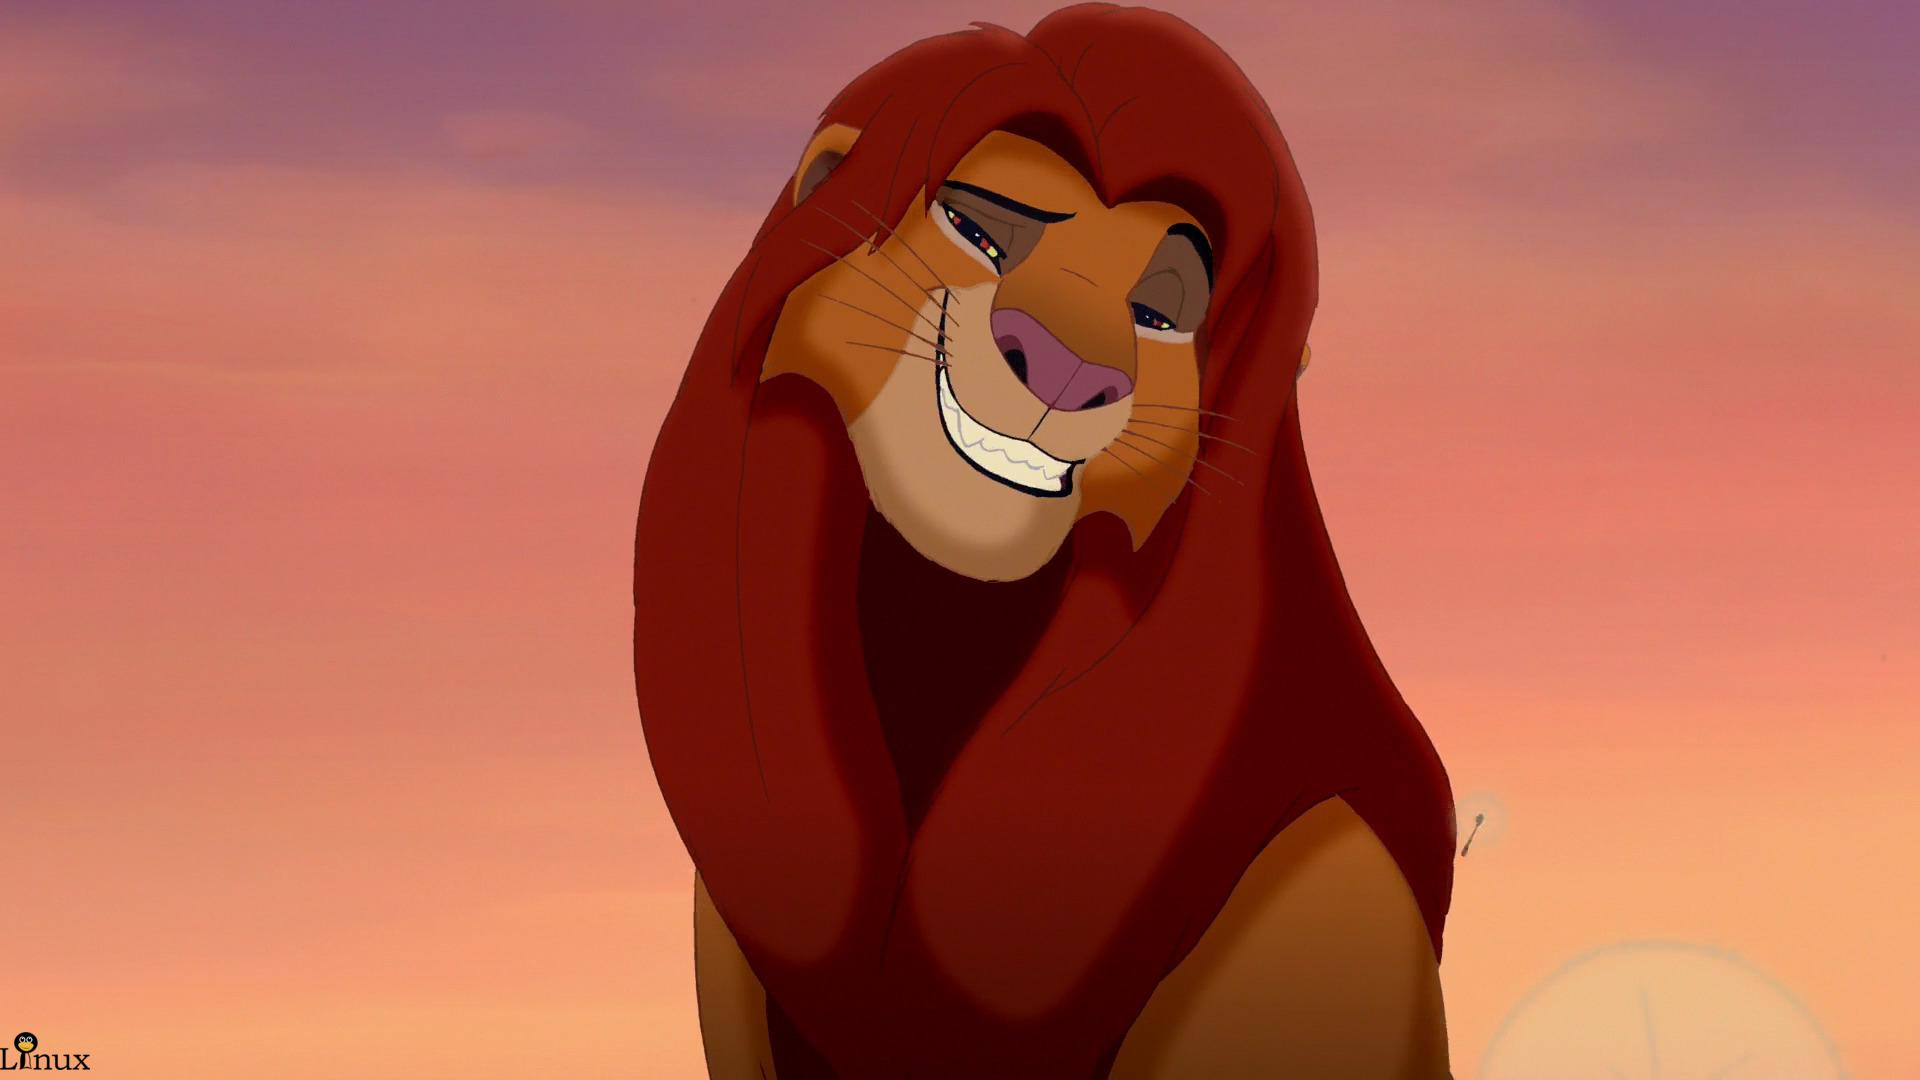
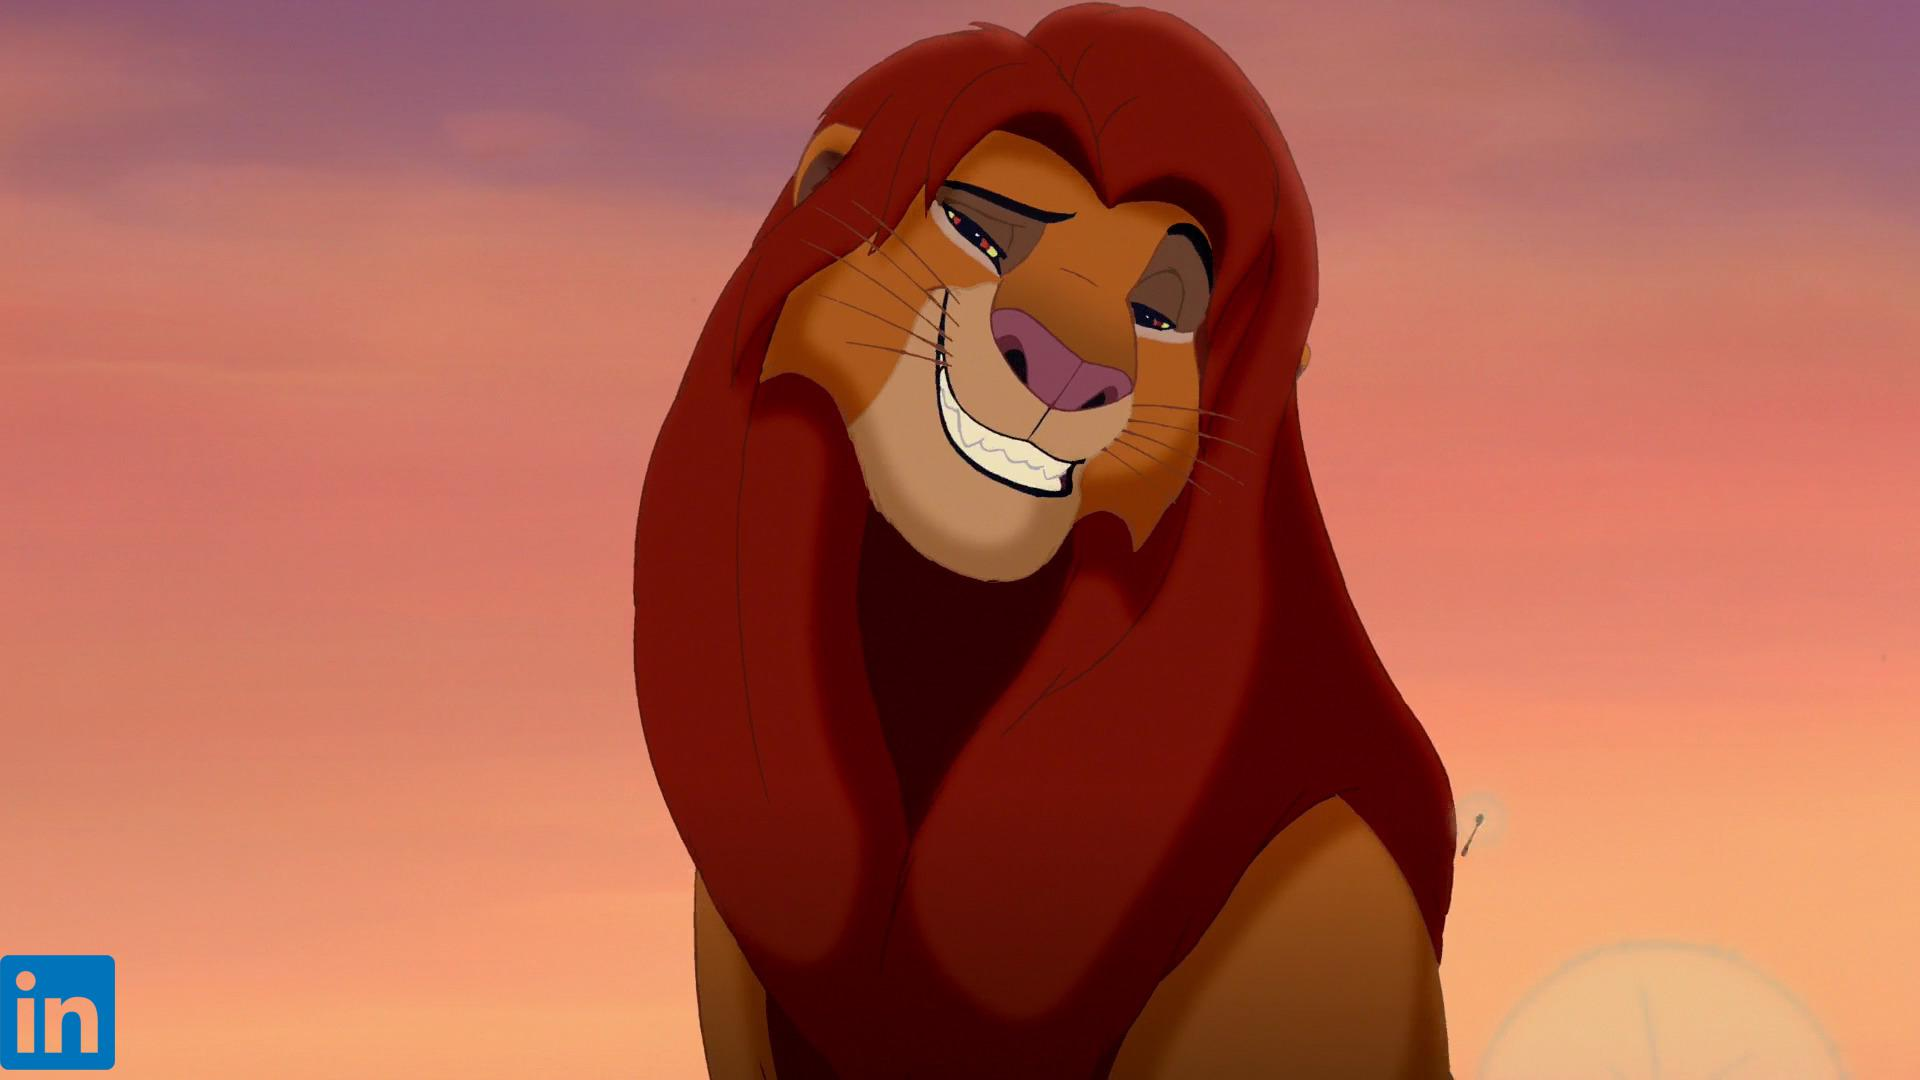
fix me

Changed region(s): [[0.0, 0.8861, 0.0625, 1.0]]

diff --git a/camera.php b/camera.php
@@ -30,7 +30,7 @@ require("includes/upload.php");
     </select>
 
     <form method = "POST" >
-    <select id="stickers">
+    <select name="stickers" id="stickers">
     <option value="none">Default</option>
     <option value="./stickers/sticker1.png">Greentoon</option>
     <option value="./stickers/sticker2.png">Linkedin</option>
@@ -62,23 +62,27 @@ if (isset($_POST['apply']))
   //echo "<img src =$target>";
   //die();
   $stamp = imagecreatefrompng($selected);
-  $im = imagecreatefromjpeg($target);
-  if(imagesx($im)<200 || imagesy($im) <200)
-  {
-	  echo "image size too low";
-	  exit;
-  }
+  
+  $image = "images/output".date('Y-m-dH-i-s').".jpeg";
+  imagejpeg(imagecreatefromstring(file_get_contents($target)), $image);
+  
+  $image = imagecreatefromjpeg($image);
+ 
   $marge_right = 10;
   $marge_bottom = 10;
   $sx = imagesx($stamp);
   $sy = imagesy($stamp);
 
-  imagecopy($im, $stamp, 0, imagesy($im) - $sy - $marge_bottom, 0, 0, imagesx($stamp), imagesy($stamp));
+  imagecopy($image, $stamp, 0, imagesy($im) - $sy - $marge_bottom, 0, 0, imagesx($stamp), imagesy($stamp));
 
-  $out="uploads/".$target;
-  imagejpeg($im,$out);
-  imagedestroy($im);
-  echo "<img src=$out >";
+  //$date = new DateTime();
+  //rename($target, "image" . $date->format('Y-m-d H:i:sP') . ".jpg");
+  
+  
+  echo "<img src=$image >";
+  // $out="uploads/".$target;
+  // imagejpeg($im,$out);
+  // imagedestroy($im);
 }
 ?>
 </body>

diff --git a/home.php b/home.php
@@ -67,11 +67,10 @@ if(isset($_POST['submit']))
         echo "File is not an image.";
         $uploadOk = 0;
     }
-}
-//var_dump ($selected);
+
 $stamp = imagecreatefrompng($selected);
 $im = imagecreatefromjpeg($target_file);
-if(imagesx($im)<500 || imagesy($im) <500)
+if(imagesx($im)<10 || imagesy($im) <10)
 {
 	echo "image size too low";
 	exit;
@@ -87,6 +86,9 @@ $out="uploads/".$_FILES["fileToUpload"]["name"];
 imagejpeg($im,$out);
 imagedestroy($im);
 echo "<img src=$out >";
+}
+//var_dump ($selected);
+
 
 ?>
 
